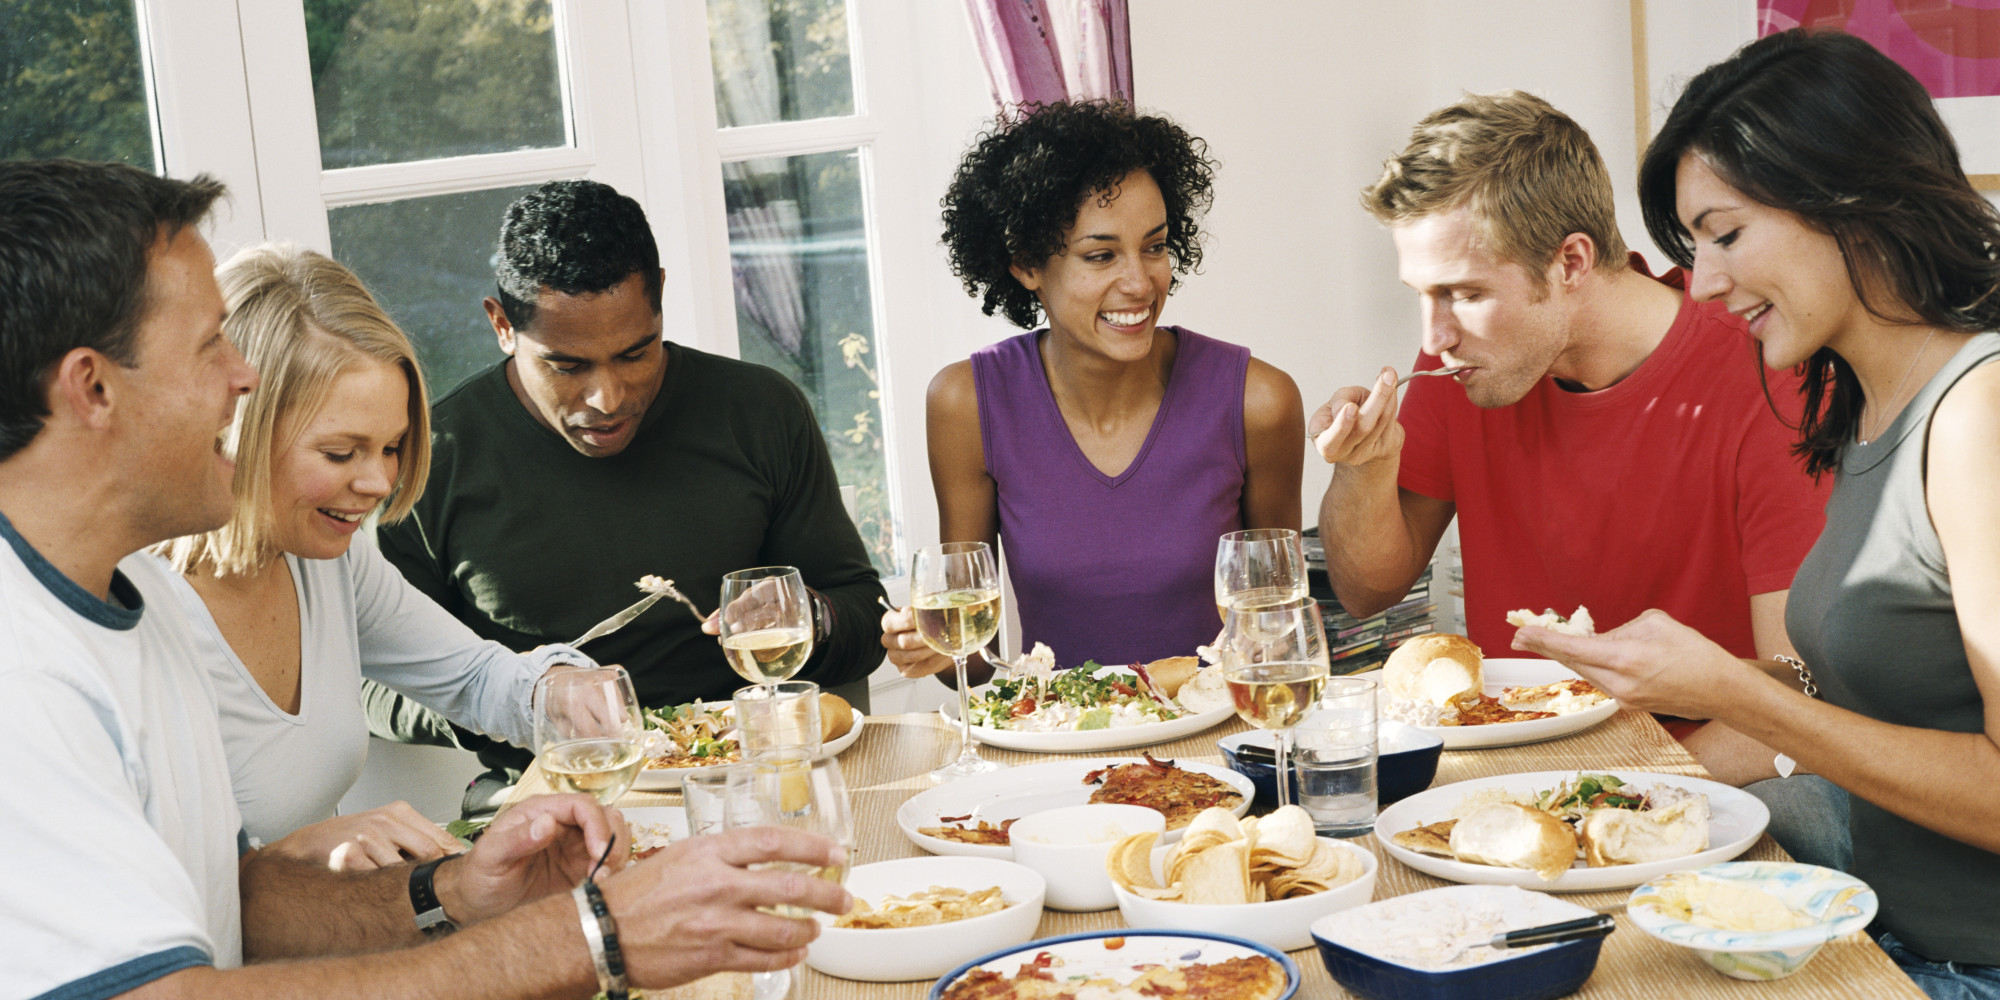
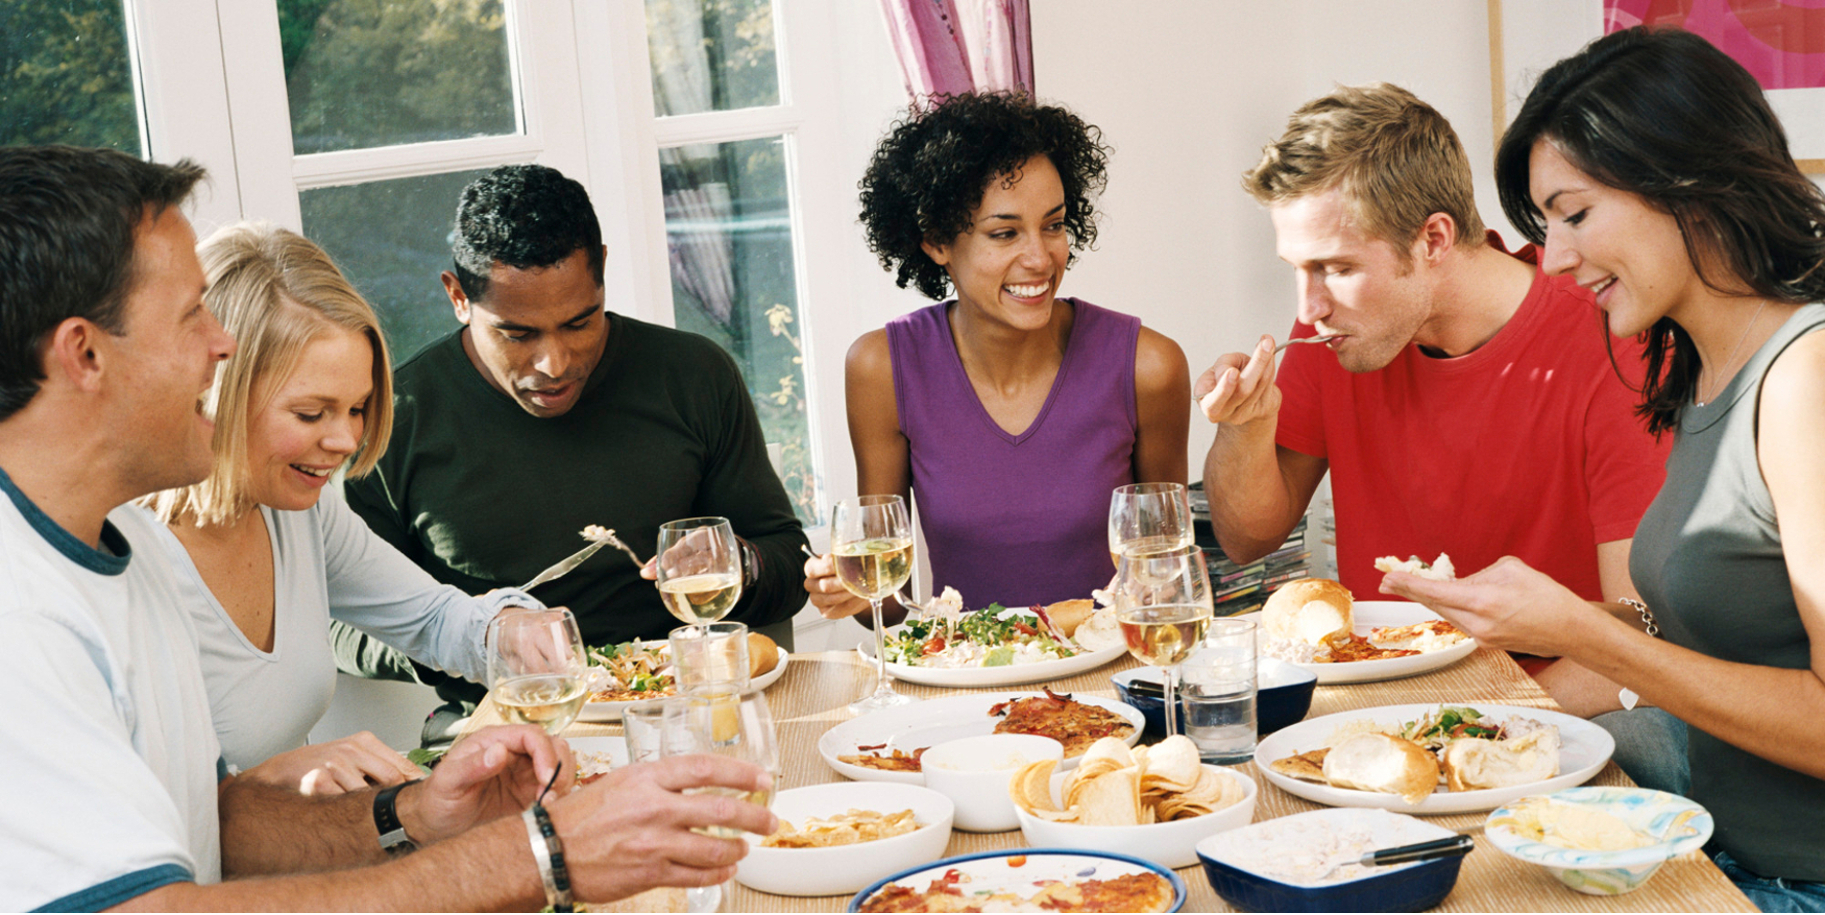
resized all the image to appropriate widht and height

diff --git a/src/app/homepage/homepage.component.html b/src/app/homepage/homepage.component.html
@@ -4,7 +4,7 @@
   <head>
     <title>CribCuisine</title>
     <meta name="viewport" content="width=device-width">
-    <link rel="stylesheet" href="https://maxcdn.bootstrapcdn.com/bootstrap/4.0.0/css/bootstrap.min.css" />
+
   </head>
 
   <body>
@@ -28,23 +28,31 @@
 
      
    
-<ngb-carousel *ngIf="images">
-  <ng-template ngbSlide>
+<ngb-carousel *ngIf="images" role="listbox" style=" width:100%; height: 500px !important;">
+  <ng-template ngbSlide >
     <img [src]="images[0]" alt="First slide">
     <div class="carousel-caption">
       <h3>10 seconds between slides...</h3>
       <p>This carousel uses customized default values.</p>
     </div>
   </ng-template>
-  <ng-template ngbSlide>
+  <ng-template ngbSlide >
     <img [src]="images[1]"  alt="Second slide">
     <div class="carousel-caption">
       <h3>No keyboard...</h3>
       <p>This carousel uses customized default values.</p>
     </div>
   </ng-template>
-  <ng-template ngbSlide>
+  <ng-template ngbSlide >
+      <div class="carousel-caption">
+          <h3>And no wrap after last slide.</h3>
+          <p>This carousel uses customized default values.</p>
+        </div>
     <img [src]="images[2]" alt="Third slide">
+
+  </ng-template >
+  <ng-template ngbSlide style=" width:100%; height: 500px !important;">
+    <img [src]="images[3]" alt="Third slide">
     <div class="carousel-caption">
       <h3>And no wrap after last slide.</h3>
       <p>This carousel uses customized default values.</p>

diff --git a/src/app/homepage/homepage.component.ts b/src/app/homepage/homepage.component.ts
@@ -6,18 +6,18 @@ import {map} from 'rxjs/operators';
 import {HttpClient} from '@angular/common/http';
 
 @Component({
-  selector: 'app-homepage',
+  selector: 'app-homepage', 
   templateUrl: './homepage.component.html',
   styleUrls: ['./homepage.component.css']
 })
 export class HomepageComponent  {
   email: Promise<String>;
-  images: Array<string> = ['./../../assets/images/4.jpg', './../../assets/images/2.jpg', './../../assets/images/3.jpg'];
+  images: Array<string> = ['./../../assets/images/4.jpg', './../../assets/images/2.jpg', './../../assets/images/3.jpg', './../../assets/images/1.jpg'];
 
   constructor(private authService: AuthService,
               private router: Router,
               config: NgbCarouselConfig, private _http: HttpClient) {
-                config.interval = 800;
+                config.interval = 2000;
                 config.wrap = true;
                 config.keyboard = true;
                 

diff --git a/src/app/app.module.ts b/src/app/app.module.ts
@@ -21,7 +21,7 @@ import { AppRoutingModule } from './app-routing.module';
 import { HomepageComponent } from './homepage/homepage.component';
 import { CuisineFormComponent } from './post-cuisine/cuisine-form/cuisine-form.component';
 import { Material } from './material.module';
-import { NgbdCarouselConfig } from './homepage/carousel-config';
+//import { NgbdCarouselConfig } from './homepage/carousel-config';
 
 //database handle
 import { AngularFireModule } from 'angularfire2';
@@ -53,7 +53,7 @@ import { HttpClientModule } from '@angular/common/http';
     HostcuisinesComponent,
     HostHeaderComponent,
     HostcuisinedetailsComponent,
-    NgbdCarouselConfig,
+    //NgbdCarouselConfig,
   
   ],
   imports: [

diff --git a/src/index.html b/src/index.html
@@ -5,9 +5,10 @@
   <title>CribCuisine</title>
   <base href="/">
 
-  <meta name="viewport" content="width=device-width">
+  <meta name="viewport" content="width=auto">
   <link rel="icon" type="image/x-icon" href="favicon.ico">
   <link href="https://fonts.googleapis.com/icon?family=Material+Icons" rel="stylesheet">
+  <link rel="stylesheet" href="https://maxcdn.bootstrapcdn.com/bootstrap/4.0.0/css/bootstrap.min.css" /> 
 
 </head>
 <body>

diff --git a/src/app/app.component.html b/src/app/app.component.html
@@ -1,8 +1,3 @@
+<router-outlet></router-outlet>
 
-<div class="container">
-  <div class="row">
-    <div class="col-md-12">
-      <router-outlet></router-outlet>
-    </div>
-  </div>
-</div>
+
